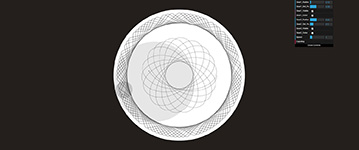
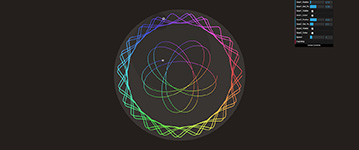
demo update

Changed region(s): [[0.3064, 0.0533, 0.7047, 0.96]]

diff --git a/pixijs/170320/main.js b/pixijs/170320/main.js
@@ -79,8 +79,8 @@ var renderer = PIXI.autoDetectRenderer(STAGE_WIDTH, STAGE_HEIGHT,{backgroundColo
 // var renderer = PIXI.autoDetectRenderer(STAGE_WIDTH, STAGE_HEIGHT,{backgroundColor : 0xcccccc, antialias: true});
 
 var stage = new PIXI.Container();
-	  stage.position.x = STAGE_WIDTH * .5;
-	  stage.position.y = STAGE_HEIGHT * .5;
+    stage.position.x = STAGE_WIDTH * .5;
+    stage.position.y = STAGE_HEIGHT * .5;
 
 var bigCircle = new PIXI.Graphics();
 var bigCircleRadius = 250;
@@ -277,7 +277,7 @@ function rebuildObjs(){
     // console.log("rebuildObjs");
 
     bigCircle.clear();
-    bigCircle.beginFill(0xffffff);
+    bigCircle.beginFill(0xffffff, .1);
     bigCircle.drawCircle(0, 0, bigCircleRadius);
     bigCircle.endFill();
 
@@ -398,15 +398,17 @@ function animate() {
         lineColorArray = hsvToRGB2(tk2, .7, 1);
         lineColor = lineColorArray[0] * 256 * 256 + lineColorArray[1] * 256 + lineColorArray[2];
     }else{
-        lineColor = 0x000000;
+        lineColor = 0xffffff;
     }
     if(tk <= 1){
       lineAlpha = 0;
     } else{
       if(gear1colorMode){
-        lineAlpha = .5;
+        // lineAlpha = .5;
+        lineAlpha = .8;
       }else{
-        lineAlpha = .25;
+        // lineAlpha = .25;
+        lineAlpha = .6;
       }
     }
     if(device == "pc"){
@@ -476,15 +478,17 @@ function animate() {
         lineColorArray = hsvToRGB2(tk2, .7, 1);
         lineColor = lineColorArray[0] * 256 * 256 + lineColorArray[1] * 256 + lineColorArray[2];
     }else{
-        lineColor = 0x000000;
+        lineColor = 0xffffff;
     }
     if(tk2 <= 1){
       lineAlpha = 0;
     } else{
       if(gear1colorMode){
-        lineAlpha = .6;
+        // lineAlpha = .6;
+        lineAlpha = .9;
       }else{
-        lineAlpha = .3;
+        // lineAlpha = .3;
+        lineAlpha = .7;
       }
     }
     if(device == "pc"){
